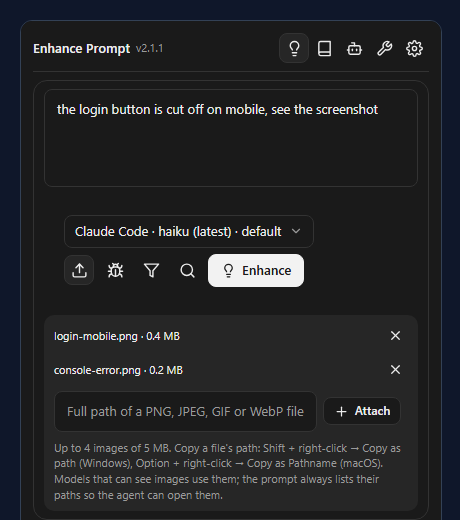
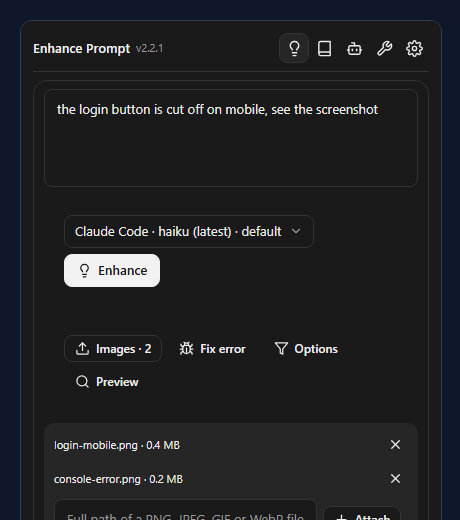
UI: composer tools as labelled buttons (Images, Fix error, Options, Preview); notices as a compact tinted line without the untranslated Note heading; Preview unfolds the context list instead of a notice repeating its counts

diff --git a/src/panel/enhance-tab.tsx b/src/panel/enhance-tab.tsx
@@ -1,5 +1,5 @@
 // enhance-tab.tsx: part of the Enhance Prompt panel (entry: src/panel.tsx).
-import { Badge, Box, Button, Callout, Checkbox, Collapsible, Grid, IconButton, read, RelativeTime, Row, Select, set, Progress, Spinner, Stack, Switch, Text, Textarea, update, Input } from 'orca'
+import { Badge, Box, Button, Callout, Checkbox, Collapsible, Grid, IconButton, read, RelativeTime, Row, Select, set, Progress, Spinner, Stack, Switch, Text, Textarea, update, Input, Toolbar } from 'orca'
 import { CONTEXT_LEVEL_LABELS, isContextLevel, type ContextItemView } from '../presets.ts'
 import { isStyle, STYLE_LABELS } from '../prompts.ts'
 import { t } from '../i18n.ts'
@@ -7,7 +7,7 @@ import { MAX_IMAGES } from '../image-limits.ts'
 import { BUILT_IN_STRUCTURES, structureById } from '../rules.ts'
 import { rulesConfig } from './rules-tab.tsx'
 import { ESTIMATED_STEPS, stepPercent, totalPercent, type Step } from '../progress.ts'
-import { workspaceChoices, workspaceName, images, imagesOpen, imageDraft, tick, workspaceKey, structureChoice, fixOpen, errorTerminal, tab, draft, result, style, level, profileChoice, modelChoice, outputChoice, excluded, target, pressEnter, catalogs, run, optionsOpen, busy, lastRun, contextShown, contextNotes, put, targets, models, defaults, effectiveStyle, effectiveLevel, effectiveEnter, enabledProfiles, say } from './state.ts'
+import { contextOpen, workspaceChoices, workspaceName, images, imagesOpen, imageDraft, tick, workspaceKey, structureChoice, fixOpen, errorTerminal, tab, draft, result, style, level, profileChoice, modelChoice, outputChoice, excluded, target, pressEnter, catalogs, run, optionsOpen, busy, lastRun, contextShown, contextNotes, put, targets, models, defaults, effectiveStyle, effectiveLevel, effectiveEnter, enabledProfiles, say } from './state.ts'
 import { pickWorkspace, addImage, removeImage, fixError, refreshTargets, enhanceNow, previewContext, cancel, toggleItem, send, copy } from './actions.ts'
 import { outputOptions, styleOptions, levelOptions, NoticeBar, seconds, MODEL_SEP, PROFILE_DEFAULT, shortModelName } from './common.tsx'
 
@@ -59,7 +59,11 @@ export function ContextPanel() {
   const included = shown.filter((item) => !ex.has(item.id))
   const chars = included.reduce((sum, item) => sum + item.chars, 0)
   return (
-    <Collapsible title={t('Context · {count} items · {chars} chars', { count: included.length, chars: chars.toLocaleString() })}>
+    <Collapsible
+      title={t('Context · {count} items · {chars} chars', { count: included.length, chars: chars.toLocaleString() })}
+      open={read(contextOpen)}
+      onChange={(open) => set(contextOpen, open)}
+    >
       <Stack gap="xs">
         {shown.map((item) => (
           <Checkbox
@@ -245,6 +249,37 @@ export function optionsSummary(): string {
 }
 
 /** Style, context, output language and the Enter switch, shown under the composer when opened. */
+/**
+ * The composer's tools, each a word and an icon (icons alone were hard to read): images, fixing an
+ * error, options, and a preview of the context. An open tool is outlined.
+ */
+export function ComposerTools() {
+  const working = read(busy)
+  const attached = read(images).length
+  return (
+    <Toolbar label={t('Prompt tools')} gap="xs">
+      <Button
+        size="sm"
+        icon="upload"
+        variant={read(imagesOpen) || attached > 0 ? 'outline' : 'ghost'}
+        tooltip={attached > 0 ? t('Attached images: {count}', { count: attached }) : t('Attach images')}
+        onPress={() => update(imagesOpen, (open) => !open)}
+      >
+        {attached > 0 ? `${t('Images')} · ${attached}` : t('Images')}
+      </Button>
+      <Button size="sm" icon="bug" variant={read(fixOpen) ? 'outline' : 'ghost'} tooltip={t('Fix an error from a terminal')} onPress={() => update(fixOpen, (open) => !open)}>
+        {t('Fix error')}
+      </Button>
+      <Button size="sm" icon="filter" variant={read(optionsOpen) ? 'outline' : 'ghost'} tooltip={`${t('Options')}: ${optionsSummary()}`} onPress={() => update(optionsOpen, (open) => !open)}>
+        {t('Options')}
+      </Button>
+      <Button size="sm" icon="search" variant="ghost" tooltip={t('Preview context')} onPress={() => void previewContext()} disabled={working !== null}>
+        {working === 'preview' ? t('Gathering…') : t('Preview')}
+      </Button>
+    </Toolbar>
+  )
+}
+
 /** Several workspaces share this one's name and branch: the person picks its folder once. */
 export function WorkspacePicker() {
   const choices = read(workspaceChoices)
@@ -492,43 +527,17 @@ export function EnhanceTab() {
         />
         <Row gap="xs" justify="between" wrap>
           <ComposerModelPicker />
-          <Row gap="xs">
-            <IconButton
-              icon="upload"
-              label={read(images).length > 0 ? t('Attached images: {count}', { count: read(images).length }) : t('Attach images')}
-              variant={read(imagesOpen) || read(images).length > 0 ? 'outline' : 'ghost'}
-              onPress={() => update(imagesOpen, (open) => !open)}
-            />
-            <IconButton
-              icon="bug"
-              label={t('Fix an error from a terminal')}
-              variant={read(fixOpen) ? 'outline' : 'ghost'}
-              onPress={() => update(fixOpen, (open) => !open)}
-            />
-            <IconButton
-              icon="filter"
-              label={`${t('Options')}: ${optionsSummary()}`}
-              variant={read(optionsOpen) ? 'outline' : 'ghost'}
-              onPress={() => update(optionsOpen, (open) => !open)}
-            />
-            <IconButton
-              icon="search"
-              label={working === 'preview' ? t('Gathering…') : t('Preview context')}
-              variant="ghost"
-              onPress={() => void previewContext()}
-              disabled={working !== null}
-            />
-            {working === 'enhance' ? (
-              <Button variant="outline" icon="stop" onPress={cancel}>
-                {t('Cancel')}
-              </Button>
-            ) : (
-              <Button variant="solid" icon="lightbulb" tooltip={t('Ctrl+Enter (⌘Enter on macOS)')} onPress={() => void enhanceNow()} disabled={!text.trim() || working !== null}>
-                {t('Enhance')}
-              </Button>
-            )}
-          </Row>
+          {working === 'enhance' ? (
+            <Button variant="outline" icon="stop" onPress={cancel}>
+              {t('Cancel')}
+            </Button>
+          ) : (
+            <Button variant="solid" icon="lightbulb" tooltip={t('Ctrl+Enter (⌘Enter on macOS)')} onPress={() => void enhanceNow()} disabled={!text.trim() || working !== null}>
+              {t('Enhance')}
+            </Button>
+          )}
         </Row>
+        <ComposerTools />
         <ImagesBox />
         <PromptOptions />
         <FixErrorBox />

diff --git a/src/panel/actions.ts b/src/panel/actions.ts
@@ -9,7 +9,7 @@ import { PRIVACY_KEYS } from '../privacy.ts'
 import { stepPercent, totalPercent, type Step } from '../progress.ts'
 import { MAX_IMAGES } from '../image-limits.ts'
 import { PANEL_REQUEST_LIMIT_MS, type ProfileInput } from '../protocol.ts'
-import { type Form, terminalWorkspaces, workspaceChoices, images, imageDraft, tick, workspaceKey, parked, MAX_PARKED, type Slot, rulesState, structureChoice, workspaceName, errorTerminal, tab, draft, result, style, profileChoice, modelChoice, outputChoice, excluded, target, historyRaw, confirmClearHistory, form, detected, catalogs, catalogLoading, customModel, type Run, run, dataSummary, privacy, confirmWipe, busy, notice, lastRun, contextShown, contextNotes, KEPT, mayKeep, put, forgetSaved, targets, models, defaults, effectiveStyle, effectiveLevel, effectiveEnter, say, message } from './state.ts'
+import { type Form, contextOpen, terminalWorkspaces, workspaceChoices, images, imageDraft, tick, workspaceKey, parked, MAX_PARKED, type Slot, rulesState, structureChoice, workspaceName, errorTerminal, tab, draft, result, style, profileChoice, modelChoice, outputChoice, excluded, target, historyRaw, confirmClearHistory, form, detected, catalogs, catalogLoading, customModel, type Run, run, dataSummary, privacy, confirmWipe, busy, notice, lastRun, contextShown, contextNotes, KEPT, mayKeep, put, forgetSaved, targets, models, defaults, effectiveStyle, effectiveLevel, effectiveEnter, say, message } from './state.ts'
 
 let inFlight: AbortController | null = null
 /** The project of the run in flight; filled in if the panel learns its key only after the run started. */
@@ -373,7 +373,9 @@ export async function previewContext(): Promise<void> {
       { timeoutMs: 60_000 }
     )
     showContext(answer.context, answer.notes)
-    set(notice, { tone: 'neutral', text: t('{count} context items, {chars} chars.', { count: answer.context.length, chars: answer.chars.toLocaleString() }) })
+    // The list's own title says how many items and characters: show the list rather than a notice.
+    set(contextOpen, true)
+    set(notice, null)
   } catch (error) {
     set(notice, { tone: 'danger', text: message(error) })
   } finally {

diff --git a/src/panel/common.tsx b/src/panel/common.tsx
@@ -1,5 +1,5 @@
 // common.tsx: part of the Enhance Prompt panel (entry: src/panel.tsx).
-import { Callout, Heading, IconButton, read, Row, set, Stack, Text, type OrcaNode } from 'orca'
+import { Heading, IconButton, read, Row, set, Stack, Text, type OrcaNode, Box } from 'orca'
 import { CONTEXT_LEVEL_LABELS, CONTEXT_LEVELS, type ProfileView } from '../presets.ts'
 import { STYLE_LABELS, STYLES } from '../prompts.ts'
 import { t } from '../i18n.ts'
@@ -47,12 +47,13 @@ export function NoticeBar() {
   const current = read(notice)
   if (!current) return null
   return (
-    <Callout tone={current.tone === 'neutral' ? undefined : current.tone}>
-      <Row justify="between" gap="xs">
-        <Text size="sm">{current.text}</Text>
-        <IconButton icon="close" label={t('Dismiss')} size="sm" variant="ghost" onPress={() => set(notice, null)} />
-      </Row>
-    </Callout>
+    // A tinted line with the message and a close button (a Callout added an untranslated "Note" heading).
+    <Box direction="row" align="center" justify="between" gap="xs" paddingX="sm" paddingY="xs" radius="md" background={current.tone === 'neutral' ? 'muted' : current.tone}>
+      <Text size="sm" tone={current.tone === 'neutral' ? undefined : current.tone}>
+        {current.text}
+      </Text>
+      <IconButton icon="close" label={t('Dismiss')} size="sm" variant="ghost" onPress={() => set(notice, null)} />
+    </Box>
   )
 }
 

diff --git a/src/i18n.ts b/src/i18n.ts
@@ -374,7 +374,11 @@ const VI: Record<string, string> = {
   'Which folder is this project?': 'Dự án này ở thư mục nào?',
   'Several projects are named {name} on the same branch. Pick its folder so the right files are read.': 'Có nhiều dự án cùng tên {name} trên cùng một nhánh. Chọn thư mục của dự án này để đọc đúng file.',
   'Project folder': 'Thư mục dự án',
-  'Choose a folder': 'Chọn thư mục'
+  'Choose a folder': 'Chọn thư mục',
+  'Prompt tools': 'Công cụ cho prompt',
+  'Images': 'Ảnh',
+  'Fix error': 'Sửa lỗi',
+  'Preview': 'Xem trước'
 }
 
 const ZH: Record<string, string> = {
@@ -727,7 +731,11 @@ const ZH: Record<string, string> = {
   'Which folder is this project?': '这个项目在哪个文件夹？',
   'Several projects are named {name} on the same branch. Pick its folder so the right files are read.': '有多个项目在同一分支上都叫 {name}。请选择它的文件夹，以便读取正确的文件。',
   'Project folder': '项目文件夹',
-  'Choose a folder': '选择文件夹'
+  'Choose a folder': '选择文件夹',
+  'Prompt tools': '提示词工具',
+  'Images': '图片',
+  'Fix error': '修复错误',
+  'Preview': '预览'
 }
 
 const DICTS: Record<UiLanguage, Record<string, string>> = { en: {}, vi: VI, zh: ZH }

diff --git a/src/images.test.tsx b/src/images.test.tsx
@@ -129,14 +129,14 @@ test('the panel attaches an image by path, shows it, refuses a bad one, and send
     }
   })
   const view = await mount(panel, { host })
-  await view.press({ role: 'button', label: 'Attach images' })
+  await view.press({ role: 'button', text: 'Images' })
   await view.type({ label: 'Image file path' }, 'C:\\shots\\notes.txt')
   await view.press({ role: 'button', text: 'Attach' })
   assert.ok(view.find({ text: /notes\.txt is not a PNG/ }))
   await view.type({ label: 'Image file path' }, 'C:\\shots\\login bug.png', { replace: true })
   await view.press({ role: 'button', text: 'Attach' })
   assert.ok(view.find({ text: 'login bug.png · 1.5 MB' }), JSON.stringify(view.summary()))
-  assert.ok(view.find({ role: 'button', label: 'Attached images: 1' }))
+  assert.ok(view.find({ role: 'button', text: 'Images · 1' }))
   await view.type({ label: 'Your prompt' }, 'the button is cut off')
   await view.press({ role: 'button', text: 'Enhance' })
   assert.deepEqual(sent[0].images, ['C:\\shots\\login bug.png'])

diff --git a/src/i18n.test.tsx b/src/i18n.test.tsx
@@ -101,7 +101,7 @@ test('worker notes, context labels and errors arrive as codes and show in the pa
   await view.toggle({ label: /^Ngữ cảnh ·/ })
   assert.ok(view.find({ text: 'An old saved note' }))
   await view.type({ label: 'Prompt của bạn' }, 'sửa lỗi')
-  await view.press({ role: 'button', label: 'Xem trước ngữ cảnh' })
+  await view.press({ role: 'button', text: 'Xem trước' })
   assert.ok(view.find({ label: 'Cây thư mục (3 file)' }) ?? view.find({ text: /Cây thư mục/ }), JSON.stringify(view.summary()))
   assert.ok(view.find({ text: /AI chọn/ }))
   assert.ok(view.find({ text: /Bỏ qua bước AI chọn file: Chưa có API key/ }) ?? view.find({ text: /Chưa có API key/ }), JSON.stringify(view.summary()))

diff --git a/src/rules.test.tsx b/src/rules.test.tsx
@@ -108,7 +108,7 @@ test('the Rules tab adds rules (for all or this workspace) and structures; the c
   assert.equal(view.valueOf({ label: 'Always run pnpm test.' }), false)
   // The composer's options list the structures.
   await view.press({ role: 'button', label: 'Enhance Prompt' })
-  if (!view.find({ label: 'Structure' })) await view.press({ role: 'button', label: /^Options/ })
+  if (!view.find({ label: 'Structure' })) await view.press({ role: 'button', text: 'Options' })
   const select = view.find({ label: 'Structure' })
   assert.ok(select)
   const values = (select.props.options as { value: string }[]).map((option) => option.value)

diff --git a/src/panel/state.ts b/src/panel/state.ts
@@ -108,6 +108,8 @@ export const lastRun = atom<LastRun>(null)
 export const contextShown = atom<ContextItemView[]>([])
 /** Notes are Messages; an older version saved plain strings. */
 export const contextNotes = atom<(Message | string)[]>([])
+/** The context list is unfolded (Preview unfolds it). */
+export const contextOpen = atom(false)
 /** Images attached to the draft (checked by the worker): their path, name, size and type. */
 export type AttachedImage = { path: string; name: string; bytes: number; type: string }
 export const images = atom<AttachedImage[]>([])

diff --git a/src/fix-error.test.tsx b/src/fix-error.test.tsx
@@ -113,7 +113,7 @@ test('the panel: the bug button opens Fix this error, which sends a bug-fix requ
     }
   })
   const view = await mount(panel, { host })
-  await view.press({ role: 'button', label: 'Fix an error from a terminal' })
+  await view.press({ role: 'button', text: 'Fix error' })
   // The error terminal defaults to one that is not the agent.
   assert.equal(view.valueOf(view.find({ label: 'Error in' })!), 'tests')
   await view.press({ role: 'button', text: 'Fix this error' })

diff --git a/src/panel.test.tsx b/src/panel.test.tsx
@@ -66,7 +66,7 @@ test('enhances with context, then sends to the chosen agent', async () => {
   await view.toggle({ label: 'Repository tree' })
 
   // The options button names the current choice.
-  assert.ok(view.find({ label: 'Options: Balanced · Standard' }))
+  assert.equal(view.find({ role: 'button', text: 'Options' })!.props.tooltip, 'Options: Balanced · Standard')
   await view.press({ role: 'button', text: 'Enhance' })
   assert.deepEqual(enhanceInputs[1].exclude, ['tree'])
 
